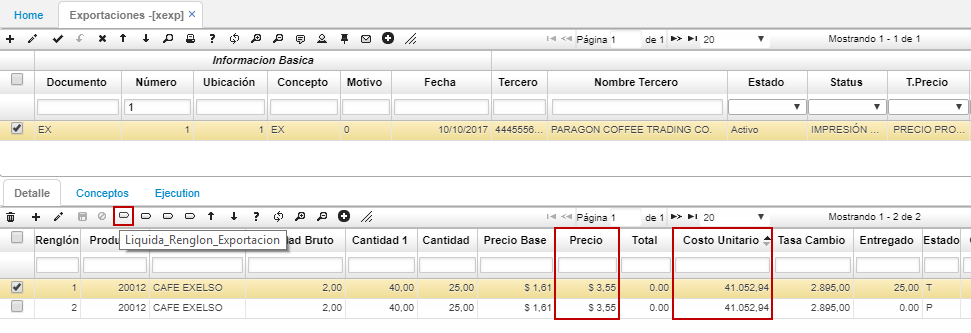
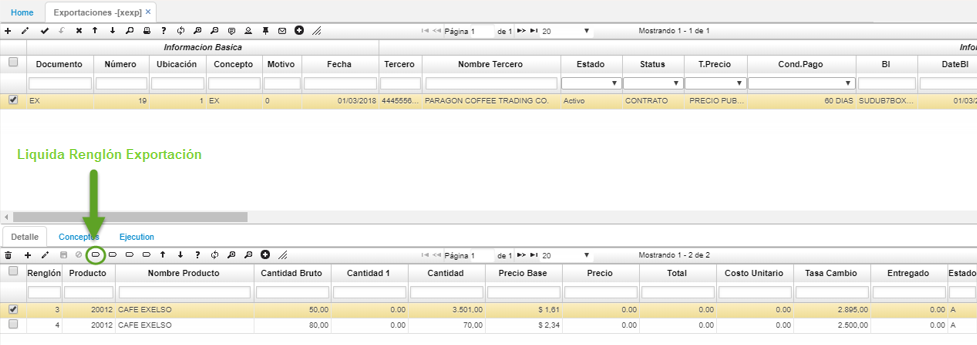
xexp

diff --git a/Operacion/scm/exportaciones/xexportaciones/xexp.md b/Operacion/scm/exportaciones/xexportaciones/xexp.md
@@ -85,49 +85,33 @@ La aplicación **XEXP** cuenta con una serie de tareas las cuales son necesarias
 
 ![](xexp8.png)
 
-Estas tareas se encuentran parametrizadas por precedencia, es decir, que una tarea no puede ser ejecutada si no se ha ejecutado la anterior. Este proceso se parametriza desde la aplicación [SPRC - Procesos]().  
+Estas tareas se encuentran parametrizadas por precedencia, es decir, que una tarea no puede ser ejecutada si no se ha ejecutado la anterior. Este proceso se parametriza desde la aplicación [**SPRC - Procesos**](http://docs.oasiscom.com/Operacion/utility/workflow/sbasica/sprc).  
 
+En el maestro de SPRC se debe crear un registro con su respectivo Id de proceso y nombre, asociando el documento y el tipo de tarea.  
 
+![](xexp9.png)
 
+En el detalle, se crean las tareas teniendo en cuenta lo siguiente:	 
 
+* En el campo **Depende**, se define si la ejecución de dicha tarea depende de la anterior. Por ejemplo: La tarea _Asignación de Lotes_ no puede ser ejecutada, hasta que se ejecute la tarea de _Contrato_. Por lo tanto, en el campo _Depende_ se selecciona del listBox la opción _Anterior_:  
 
+![](xexp10.png)
 
+De esta manera, si se intenta ejecutar dicha tarea sin haber ejecutado la tarea de contratos, la aplicación enseñará la siguiente validación.  
 
+![](xexp11.png)
 
+Por el contrario, si ejecuta la tarea de _Contratos_, la siguiente a esta _**Asignación de Lotes**_ podrá ser ejecutada.  
 
+Ejecutando la tarea de _Contratos_:  
 
+![](xexp12.png)
 
+Ejecución de la siguiente tarea:  
 
+![](xexp13.png)
 
-
-
-
-
-
-
-
-
-
-
-
-
-
-
-
-
-
-
-
-
-
-
-
-
-
-
-
-
-
+La ejecución de estas tareas se hará en distintos momentos, según como avance el proceso de la exportación.  
 
 
 
@@ -139,11 +123,65 @@ Agregamos un nuevo formulario y diligenciamos los campos. Allí relacionaremos e
 
 ![](xexp3.png)
 
-En el detalle asociaremos los productos de exportación. Allí mismo encontraremos un botón con el cual se liquida la exportación. Las exportaciones para el siguiente ejemplo, se liquidan por renglón y deben calcular el costo y el precio.  
+En el detalle asociaremos los productos de exportación. Allí mismo encontraremos la siguiente serie de botones:  
+
+#### Liquida Renglón Exportación
+
+el primero es el botón con el cual se liquida la exportación. Las exportaciones para el siguiente ejemplo, se liquidan por renglón y deben calcular el costo y el precio.  
 
 ![](xexp4.png)
+
+![](xexp14.png)
 
 Para un mejor análisis, en la pestaña de conceptos se visualiza la liquidación de los conceptos de exportación.  
 
 ![](xexp5.png)
+
+#### Confirma Item
+
+Este botón realiza la confirmación de un registro cambiando el campo _Estado_ a **P** (Procesado) y no se permitirá la modificación de ninguno de sus campos.  
+
+![](xexp15.png)
+
+![](xexp16.png)
+
+#### Reversa Item
+
+Este botón realiza la reversión del registro confirmado, cambiando el campo _Estado_ a **A** (Activo), permitiendo la modificación de registros.  
+
+![](xexp17.png)
+
+![](xexp18.png)
+
+#### Genera Ajuste
+
+Este botón genera un movimiento de inventario, el cual muestra la diferencia entre el valor total de la liquidación de la exportación menos el valor de la materia prima, es decir, no afectará los conceptos que son de inventarios (Materia Prima), donde el campo Módulo corresponde a **I**:  
+
+![](xexp19.png)
+
+Realizará afectación en el documento **EN**, concepto **AX** el cual en el campo Módulo es **_X_**, es decir, que pertenece al módulo de exportaciones.  
+
+![](xexp20.png)
+
+Botón Genera Ajuste.  
+
+![](xexp21.png)
+
+![](xexp22.png)
+
+Posteriormente, en la opción **IMOV** puede verse como han sido creados estos movimientos con documento _EN - entrada de inventario_ por concepto _AX - Ajuste al Costo por Exportación_.  
+
+![](xexp23.png)
+
+A continuación, se procede a confirmar la exportación teniendo en cuenta que, solo se puede procesar si todos los registros están liquidados y confirmados.  
+
+![](xexp24.png)
+
+
+En la aplicación [**XLIQ - Liquidaciones**](http://docs.oasiscom.com/Operacion/scm/exportaciones/xliquidacion/xliq), visualizamos la información de la exportación (estimado vs. legalizado). _Ver aplicación_.  
+
+Finalmente, en la aplicación [**FFAC - Facturas**](), creamos la factura correspondiente a la exportación generada anteriormente. _Ver aplicación_  
+
+Terminado este proceso, se culmina con todo el proceso de exportaciones.  
+
 
